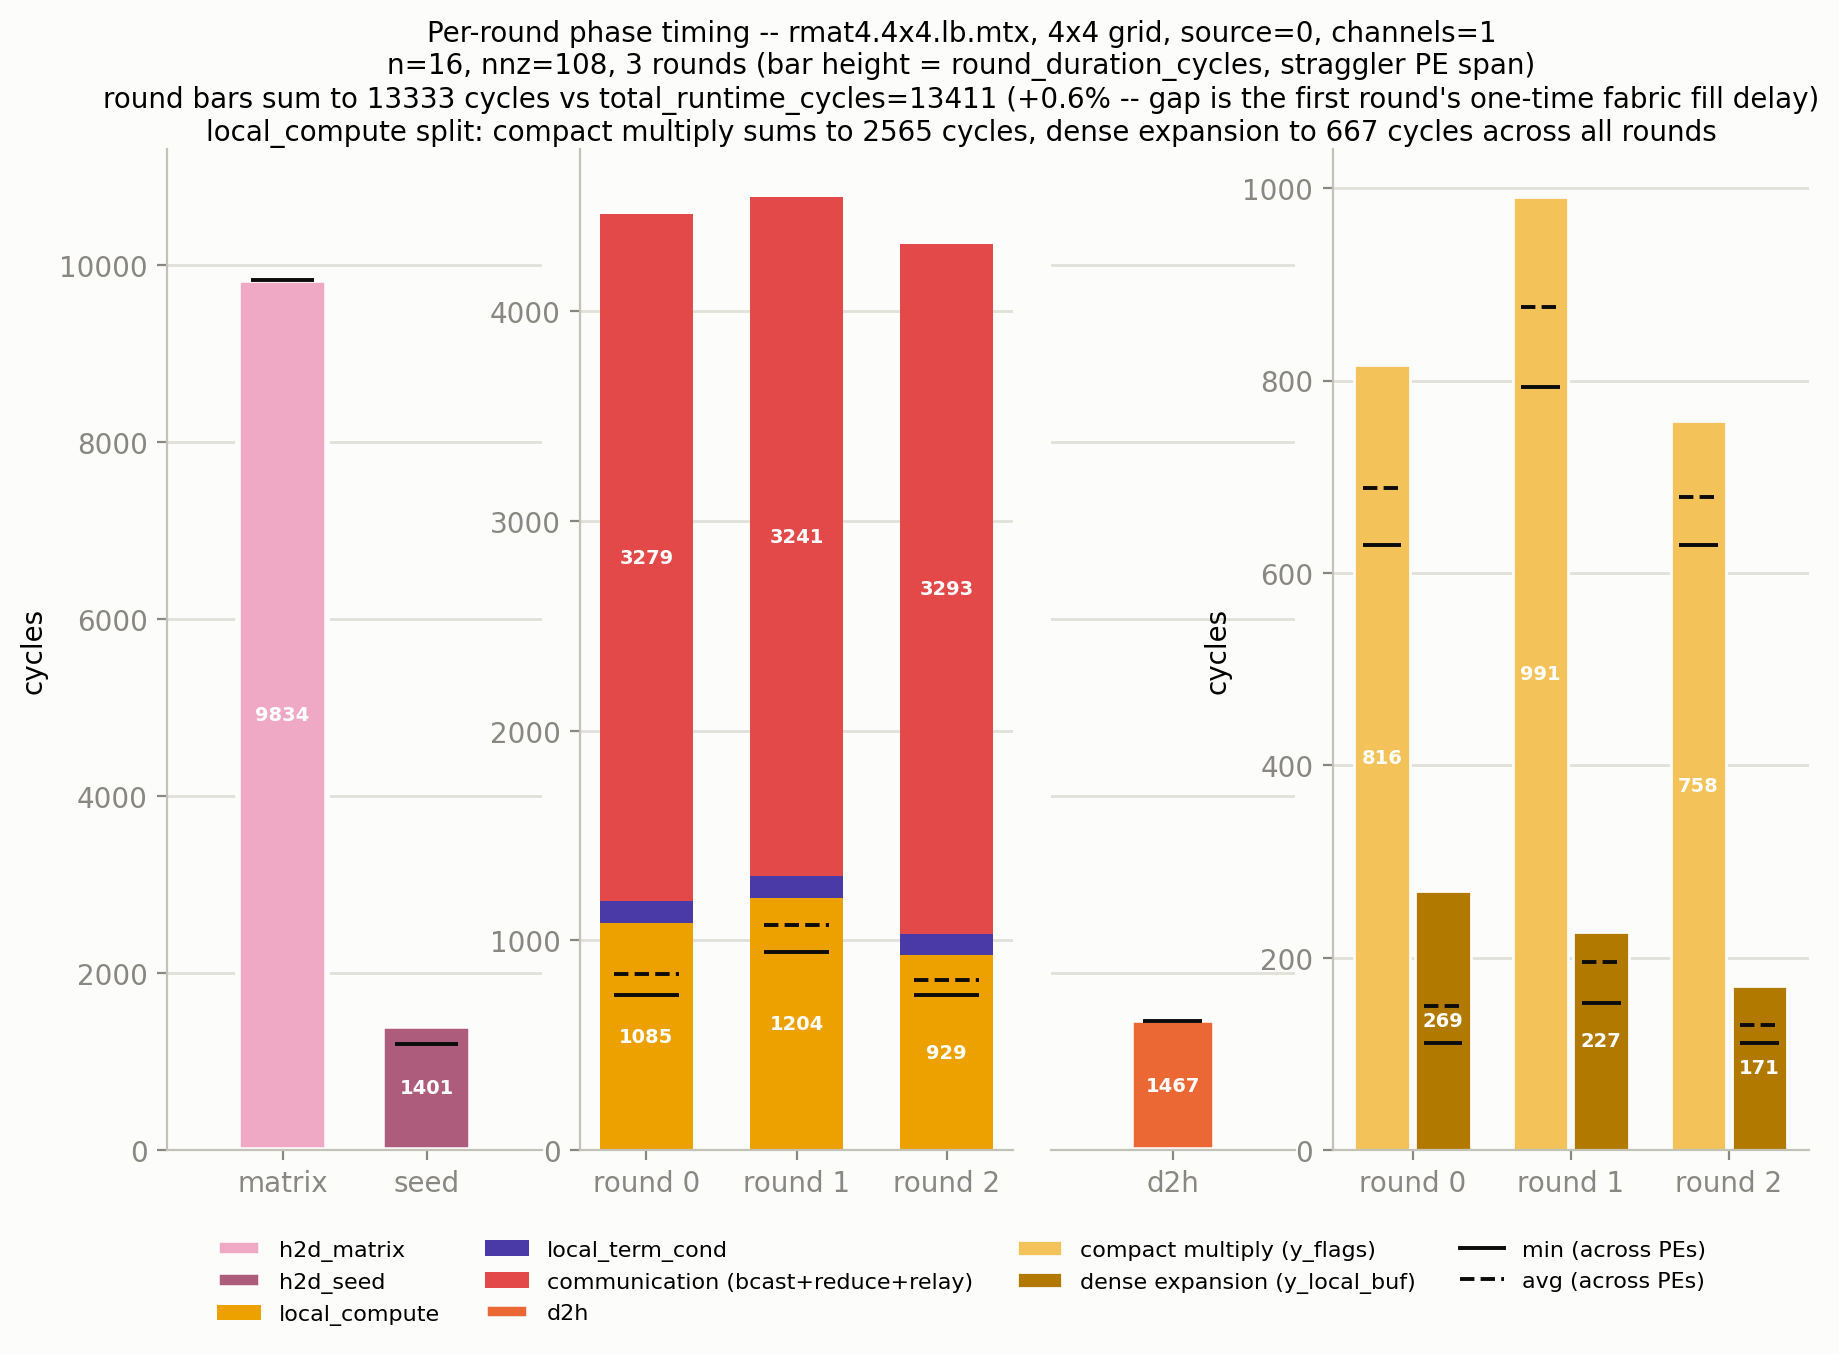
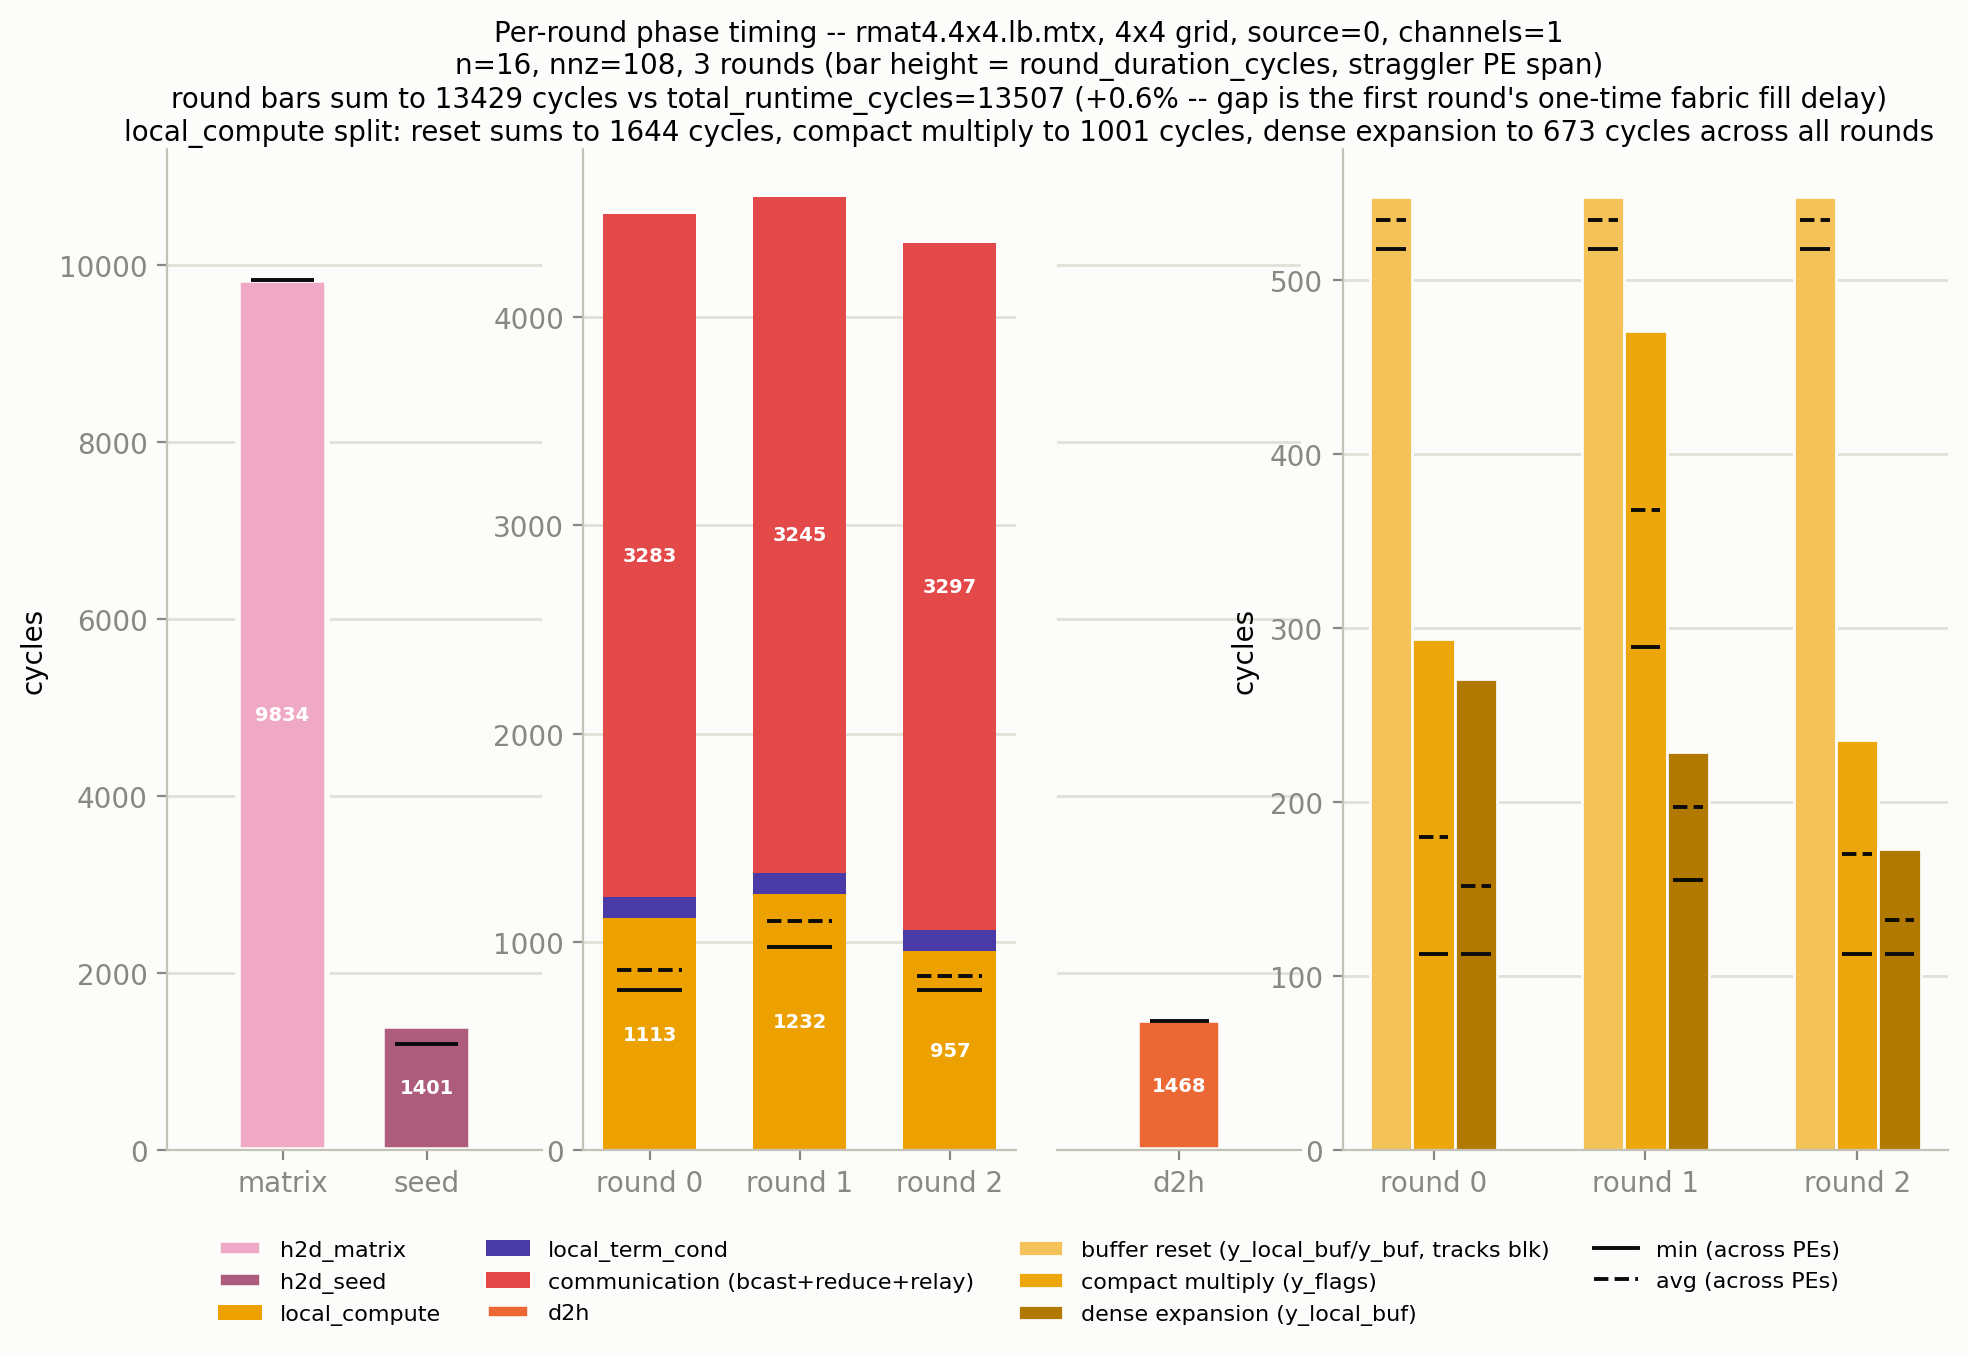
[add] compute further split with reset segment

diff --git a/spmv-hypersparse/bool_diag_spmv/plots/plot_bfs_timing.py b/spmv-hypersparse/bool_diag_spmv/plots/plot_bfs_timing.py
@@ -44,12 +44,16 @@
   show; communication is a remainder, not a directly-measured quantity).
 
   A fourth panel, to the right of h2d/rounds/d2h, breaks local_compute down
-  further into its own two sub-phases (local_compute_compact -- the compact
-  boolean multiply over y_flags/parent_compact -- vs local_compute_expand --
-  expanding that compact result to the dense y_local_buf, see bool_pe.csl's
-  compute() and TS_COMPUTE_EXPAND_ENTRY) as grouped per-round bars, same
-  min/avg tick convention, to see which of the two actually dominates
-  local_compute's cost.
+  further into its own three consecutive sub-phases (local_compute_reset --
+  zeroing y_flags/parent_compact/y_local_buf/y_buf, whose cost tracks blk,
+  not local sparsity; local_compute_compact -- the compact boolean multiply
+  over y_flags/parent_compact; local_compute_expand -- expanding that
+  compact result to the dense y_local_buf; see bool_pe.csl's compute() and
+  TS_COMPUTE_RESET_DONE/TS_COMPUTE_EXPAND_ENTRY) as grouped per-round bars,
+  same min/avg tick convention, to see which of the three actually
+  dominates local_compute's cost -- in particular, whether "compact" time
+  is genuinely the sparse multiply or actually the (sparsity-independent)
+  buffer reset.
 
   This module is importable (plot_timing_row(row, out_path)) -- run_bfs.py
   calls it directly after appending a row, so one run_bfs.py invocation
@@ -135,14 +139,16 @@ def hue_shades(base_hex, n):
 
 H2D_COLORS = dict(zip(H2D_PARTS, hue_shades(H2D_BASE_HEX, len(H2D_PARTS))))
 
-# local_compute_compact/local_compute_expand are local_compute's own two
-# halves, not a separate categorical identity -- shades of local_compute's
-# own yellow (same hue-family convention as H2D_COLORS above), compact first
-# (lighter, happens first) then expand (darker, happens second).
-COMPUTE_SPLIT_PARTS = ["local_compute_compact", "local_compute_expand"]
+# local_compute_reset/local_compute_compact/local_compute_expand are
+# local_compute's own three consecutive parts, not a separate categorical
+# identity -- shades of local_compute's own yellow (same hue-family
+# convention as H2D_COLORS above), light->dark in chronological order
+# (reset happens first, then the compact multiply, then the expansion).
+COMPUTE_SPLIT_PARTS = ["local_compute_reset", "local_compute_compact", "local_compute_expand"]
 COMPUTE_SPLIT_COLORS = dict(zip(
     COMPUTE_SPLIT_PARTS, hue_shades(ROUND_SEGMENT_COLORS["local_compute"], len(COMPUTE_SPLIT_PARTS))))
 COMPUTE_SPLIT_LABELS = {
+    "local_compute_reset": "buffer reset (y_local_buf/y_buf, tracks blk)",
     "local_compute_compact": "compact multiply (y_flags)",
     "local_compute_expand": "dense expansion (y_local_buf)",
 }
@@ -259,7 +265,7 @@ def plot_timing_row(row, out_path):
   h2d_w_in = per_bar_w_in * len(H2D_PARTS)
   d2h_w_in = per_bar_w_in * 1.3  # a little extra breathing room for one bar alone
   round_w_in = max(0.95 * rounds_completed, 3.0)
-  compute_split_w_in = max(1.1 * rounds_completed, 3.2)
+  compute_split_w_in = max(1.4 * rounds_completed, 3.6)
   fig, (ax_h2d, ax_rounds, ax_d2h, ax_compute) = plt.subplots(
       1, 4, figsize=(h2d_w_in + round_w_in + d2h_w_in + compute_split_w_in, 6.5),
       gridspec_kw={"width_ratios": [h2d_w_in, round_w_in, d2h_w_in, compute_split_w_in],
@@ -329,13 +335,17 @@ def plot_timing_row(row, out_path):
   ax_rounds.set_xticks(rounds)
   ax_rounds.set_xticklabels([f"round {r}" for r in rounds])
 
-  # Fourth panel: local_compute's own compact-vs-expand split, grouped bars
-  # (not stacked -- these are two independent measurements, not parts of one
-  # total) -- same max-height + min/avg-tick convention as the rest.
-  compute_split_bar_width = 0.35
-  group_offset = compute_split_bar_width * 0.55
+  # Fourth panel: local_compute's own reset/compact/expand split, grouped
+  # bars (not stacked -- these are independent measurements, not parts of
+  # one total) -- same max-height + min/avg-tick convention as the rest.
+  # Offsets are computed generically (N bars centered on the round's x
+  # position) rather than hardcoded for 2, since this split has grown once
+  # already (compact/expand -> reset/compact/expand) and may again.
+  n_split_parts = len(COMPUTE_SPLIT_PARTS)
+  compute_split_bar_width = 0.6 / n_split_parts
+  split_offsets = (np.arange(n_split_parts) - (n_split_parts - 1) / 2) * compute_split_bar_width
   for i, part in enumerate(COMPUTE_SPLIT_PARTS):
-    xpos = rounds + (group_offset if i == 1 else -group_offset)
+    xpos = rounds + split_offsets[i]
     heights = compute_split_stats[part]["max"]
     color = COMPUTE_SPLIT_COLORS[part]
     ax_compute.bar(xpos, heights, width=compute_split_bar_width, color=color, edgecolor=SURFACE,
@@ -368,6 +378,7 @@ def plot_timing_row(row, out_path):
 
   ax_h2d.set_ylabel("cycles")
   ax_compute.set_ylabel("cycles")
+  reset_total = int(compute_split_stats["local_compute_reset"]["max"].sum())
   compact_total = int(compute_split_stats["local_compute_compact"]["max"].sum())
   expand_total = int(compute_split_stats["local_compute_expand"]["max"].sum())
   sum_rounds = int(round_duration.sum())
@@ -378,8 +389,8 @@ def plot_timing_row(row, out_path):
                "(bar height = round_duration_cycles, straggler PE span)\n"
                f"round bars sum to {sum_rounds} cycles vs total_runtime_cycles={total_runtime_cycles} "
                f"({diff_pct:+.1f}% -- gap is the first round's one-time fabric fill delay)\n"
-               f"local_compute split: compact multiply sums to {compact_total} cycles, "
-               f"dense expansion to {expand_total} cycles across all rounds",
+               f"local_compute split: reset sums to {reset_total} cycles, compact multiply to "
+               f"{compact_total} cycles, dense expansion to {expand_total} cycles across all rounds",
                fontsize=10)
   for ax in (ax_h2d, ax_rounds, ax_d2h, ax_compute):
     ax.spines["top"].set_visible(False)

diff --git a/spmv-hypersparse/bool_diag_spmv/bfs_timing.py b/spmv-hypersparse/bool_diag_spmv/bfs_timing.py
@@ -17,29 +17,35 @@ import numpy as np
 TS_VBCAST_ISSUE = 0
 TS_VBCAST_DONE = 1
 TS_COMPUTE_ENTRY = 2
-TS_COMPUTE_EXPAND_ENTRY = 3
-TS_REDUCE_ISSUE = 4
-TS_REDUCE_DONE = 5
-TS_RELAY_ISSUE = 6
-TS_TERM_COL_DONE = 7
-TS_TERM_ROW_DONE = 8
-TS_TERM_ROW_BCAST_DONE = 9
-TS_TERM_COL_BCAST_DONE = 10
-NUM_TS_SLOTS = 11
+TS_COMPUTE_RESET_DONE = 3
+TS_COMPUTE_EXPAND_ENTRY = 4
+TS_REDUCE_ISSUE = 5
+TS_REDUCE_DONE = 6
+TS_RELAY_ISSUE = 7
+TS_TERM_COL_DONE = 8
+TS_TERM_ROW_DONE = 9
+TS_TERM_ROW_BCAST_DONE = 10
+TS_TERM_COL_BCAST_DONE = 11
+NUM_TS_SLOTS = 12
 
 # (name, start slot, end slot) -- each phase is literally end-minus-start of
 # two of the raw captures above; relay_total spans all four relay phases at
 # once rather than being their sum, as a direct (not accumulated) check.
-# local_compute_compact/local_compute_expand are local_compute's own two
-# halves (split at TS_COMPUTE_EXPAND_ENTRY, see bool_pe.csl's compute()) --
-# both purely diagnostic sub-phases, deliberately absent from
-# SEARCH_TIME_PHASES below so they don't double-count local_compute's own
-# contribution to device_time_cycles.
+# local_compute_reset/local_compute_compact/local_compute_expand are
+# local_compute's own three consecutive parts (split at
+# TS_COMPUTE_RESET_DONE/TS_COMPUTE_EXPAND_ENTRY, see bool_pe.csl's
+# compute()) -- all three purely diagnostic sub-phases, deliberately absent
+# from SEARCH_TIME_PHASES below so they don't double-count local_compute's
+# own contribution to device_time_cycles. local_compute_reset exists
+# because its cost tracks blk (dense y_local_buf/y_buf zeroing), not local
+# sparsity -- separating it out is what makes local_compute_compact an
+# honest measure of the sparse multiply itself.
 PHASES = [
     ("visited_bcast", TS_VBCAST_ISSUE, TS_VBCAST_DONE),
     ("vertical_bcast", TS_VBCAST_DONE, TS_COMPUTE_ENTRY),
     ("local_compute", TS_COMPUTE_ENTRY, TS_REDUCE_ISSUE),
-    ("local_compute_compact", TS_COMPUTE_ENTRY, TS_COMPUTE_EXPAND_ENTRY),
+    ("local_compute_reset", TS_COMPUTE_ENTRY, TS_COMPUTE_RESET_DONE),
+    ("local_compute_compact", TS_COMPUTE_RESET_DONE, TS_COMPUTE_EXPAND_ENTRY),
     ("local_compute_expand", TS_COMPUTE_EXPAND_ENTRY, TS_REDUCE_ISSUE),
     ("reduce", TS_REDUCE_ISSUE, TS_REDUCE_DONE),
     ("local_term_cond", TS_REDUCE_DONE, TS_RELAY_ISSUE),
@@ -70,6 +76,7 @@ _SLOT_NAMES = {
     TS_VBCAST_ISSUE: "ts_vbcast_issue",
     TS_VBCAST_DONE: "ts_vbcast_done",
     TS_COMPUTE_ENTRY: "ts_compute_entry",
+    TS_COMPUTE_RESET_DONE: "ts_compute_reset_done",
     TS_COMPUTE_EXPAND_ENTRY: "ts_compute_expand_entry",
     TS_REDUCE_ISSUE: "ts_reduce_issue",
     TS_REDUCE_DONE: "ts_reduce_done",
